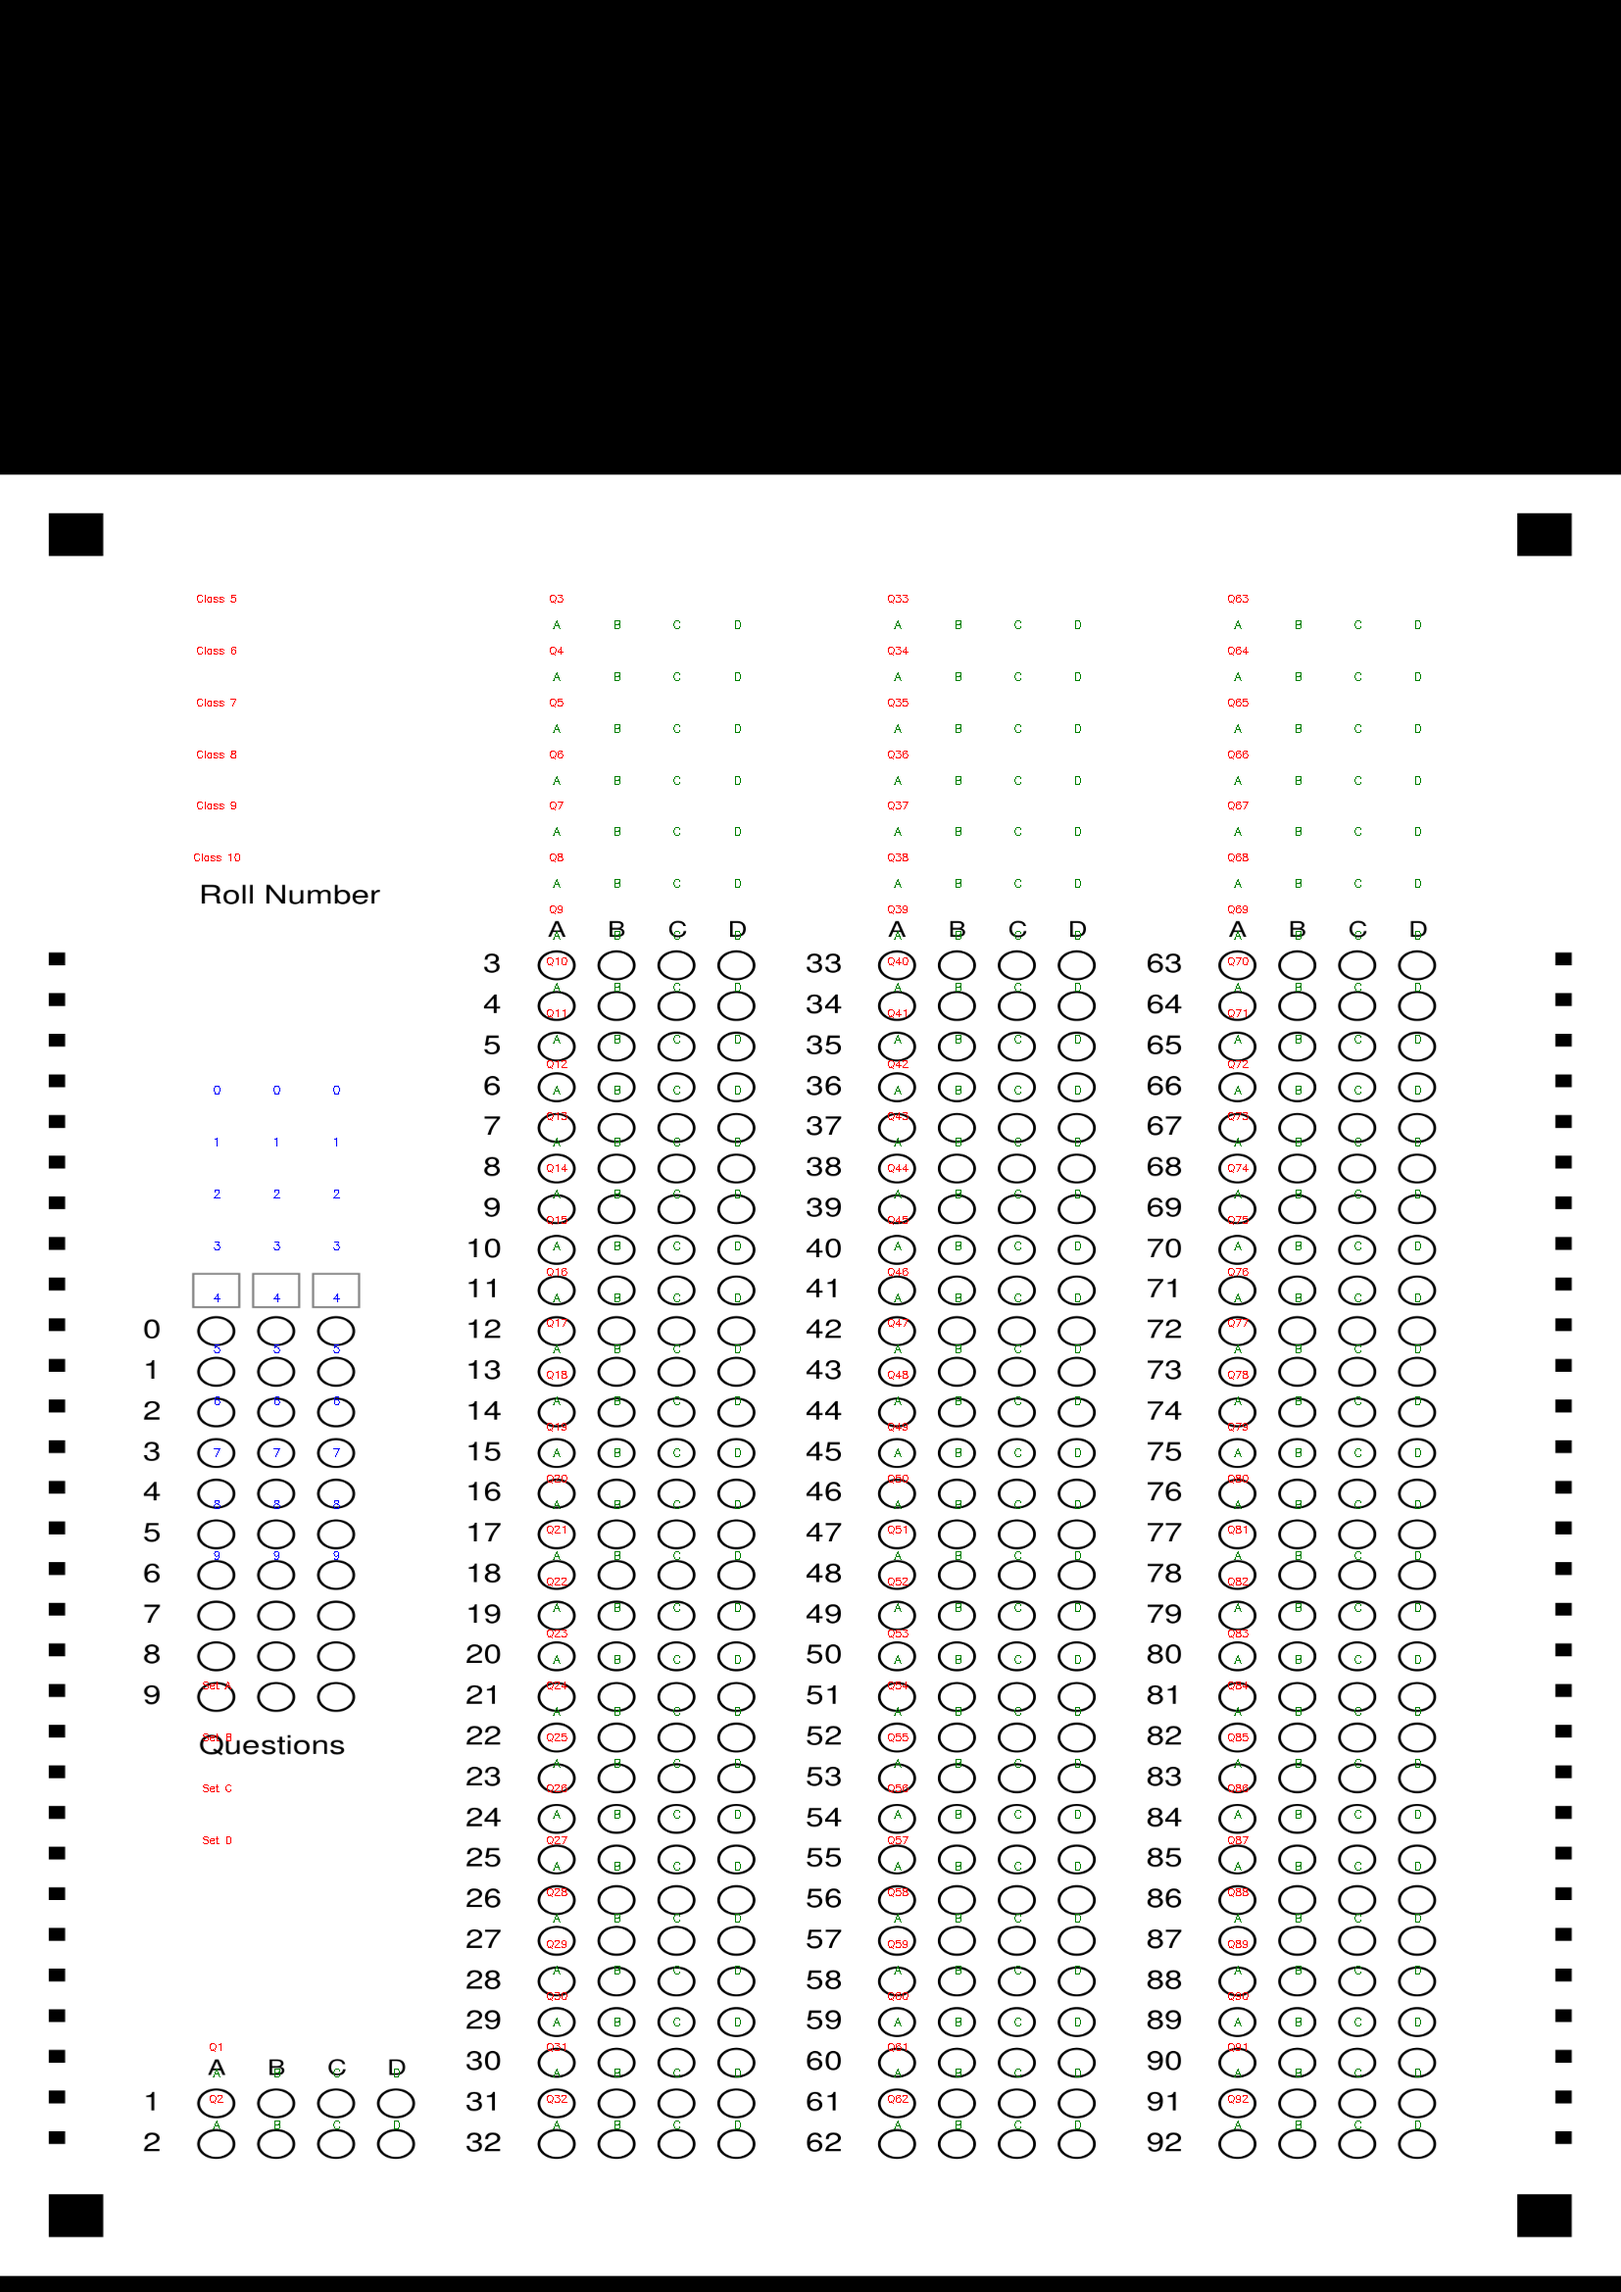
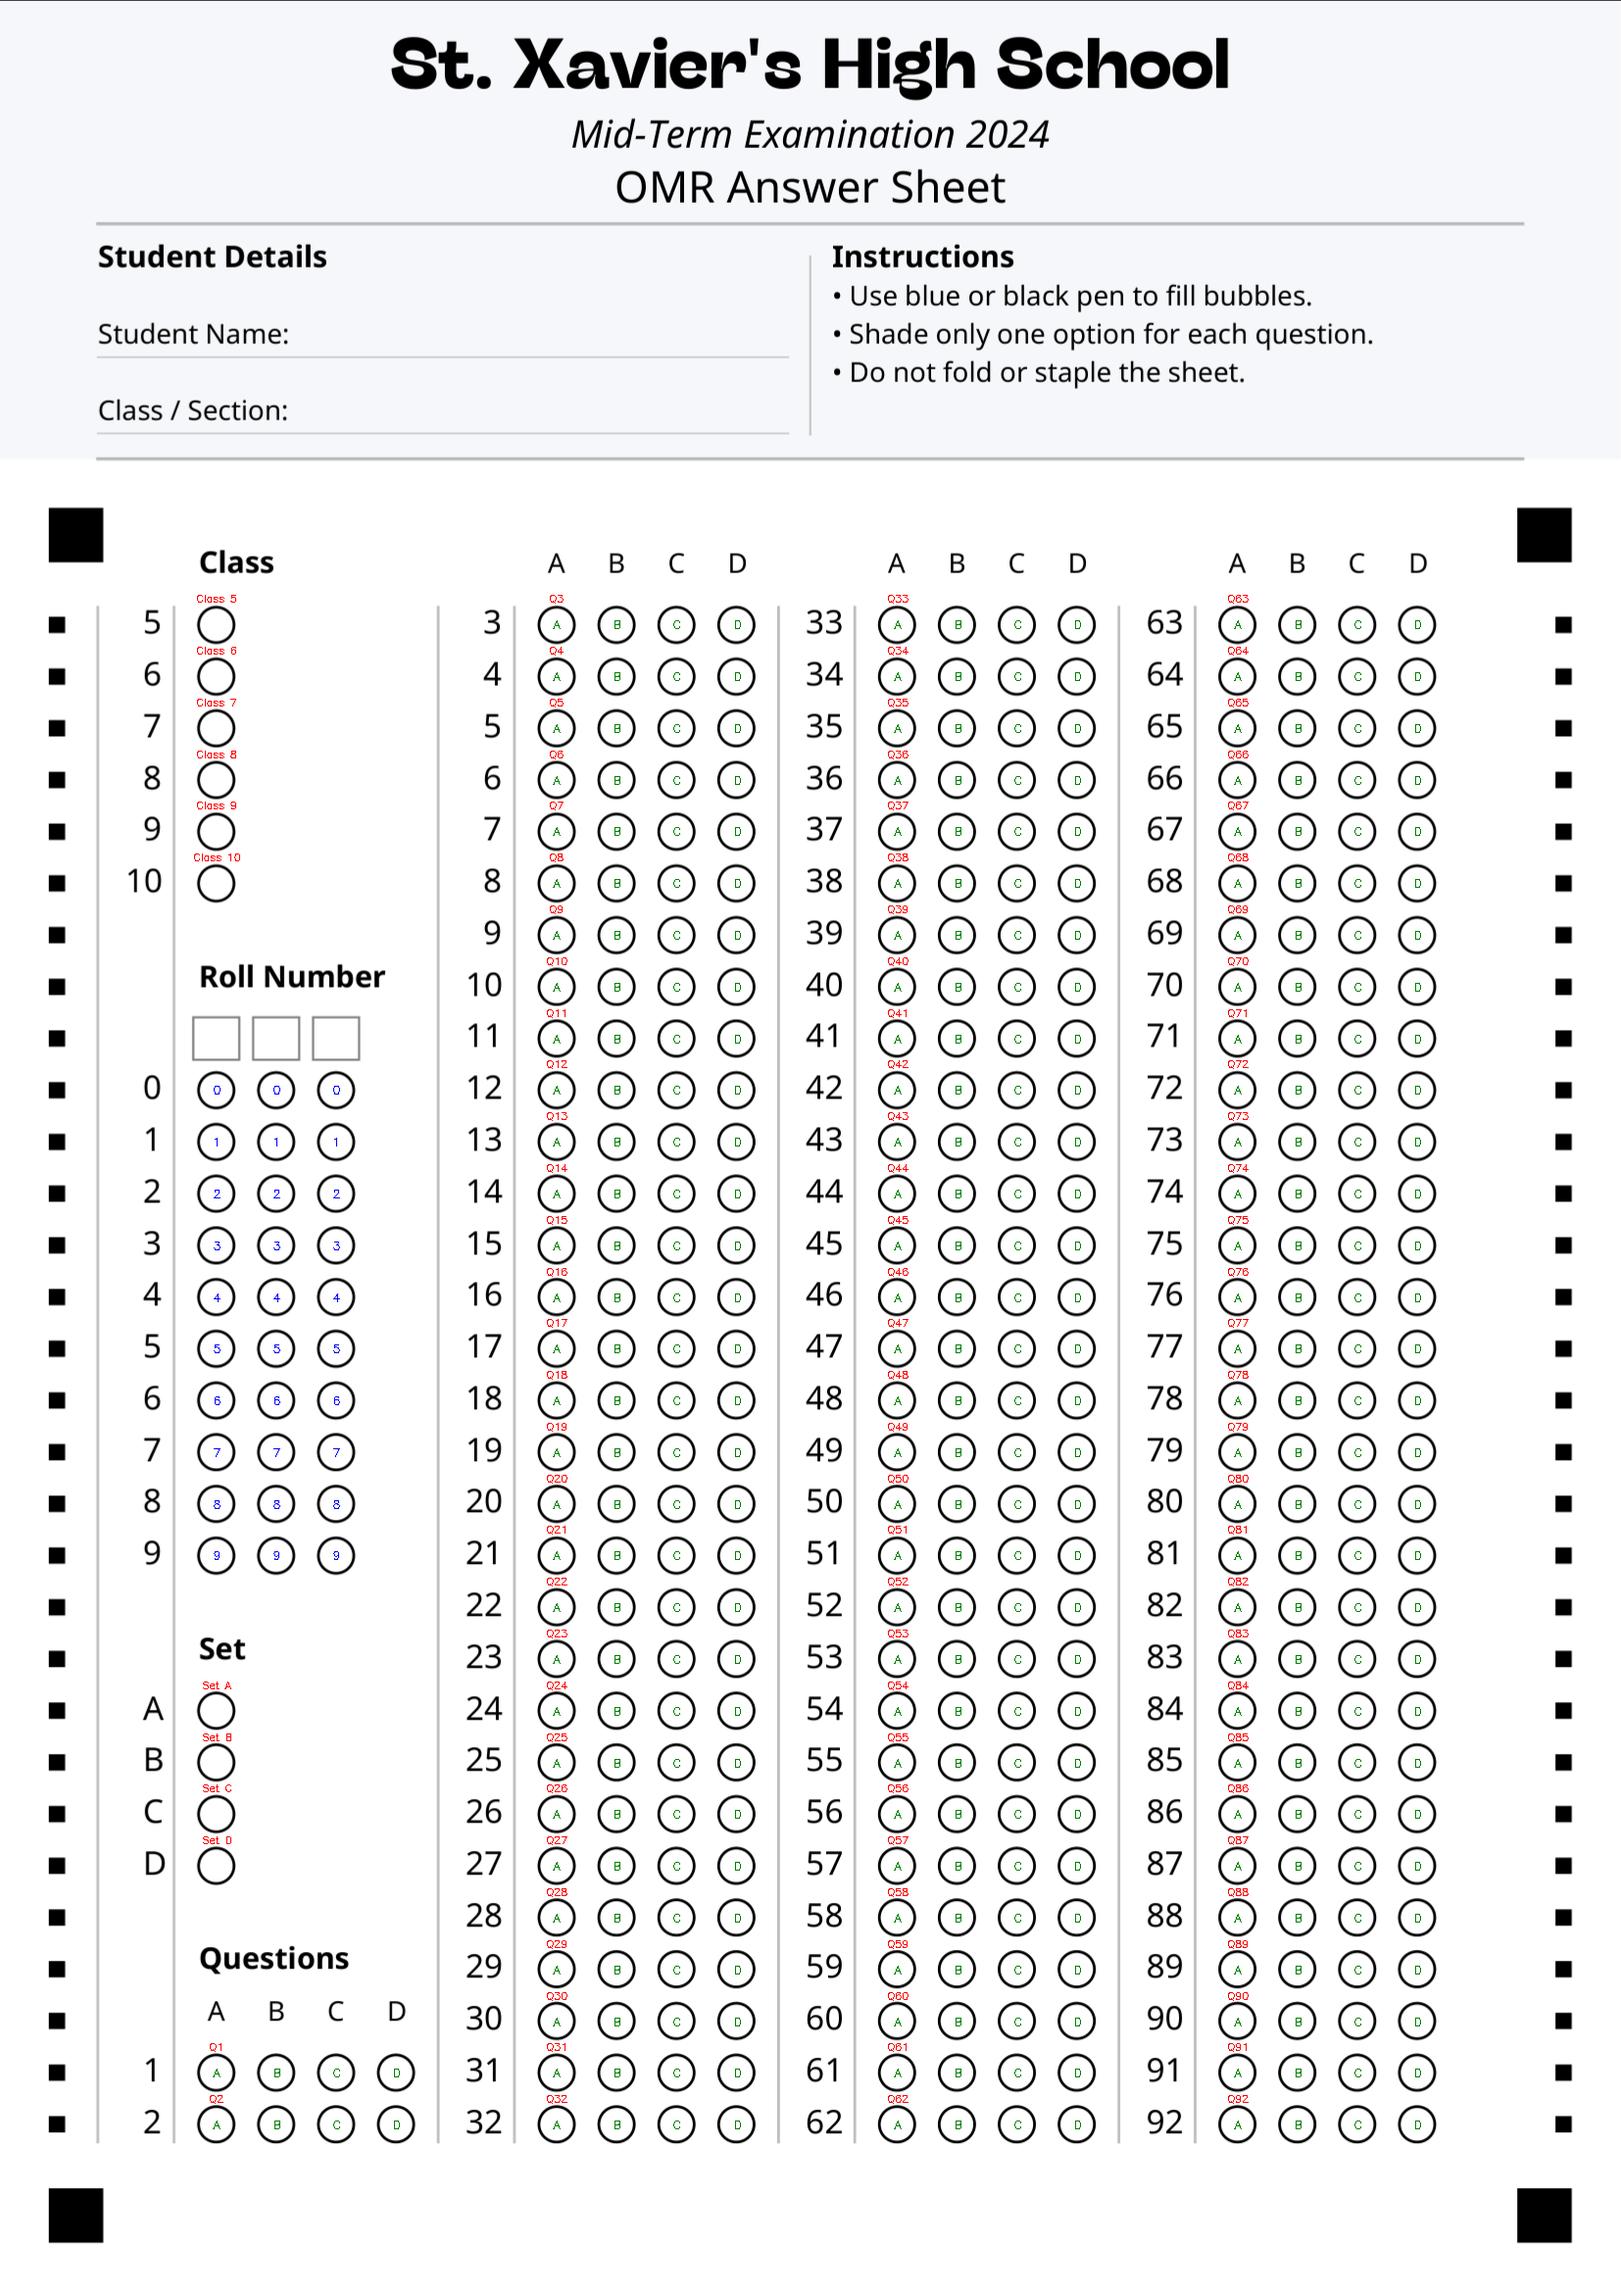
Change OMR generator output to omr_sheet.pdf and update processed reference image
- Rename output from omr_sheet_fpdf.pdf to omr_sheet.pdf for consistency
- Update processed reference image with improved bubble labeling

diff --git a/omr_sheet_generator_new.py b/omr_sheet_generator_new.py
@@ -415,5 +415,5 @@ def generate_omr_sheet(output_path: Path) -> None:
 
 
 if __name__ == "__main__":
-    target_path = Path("sheets") / "omr_sheet_fpdf.pdf"
+    target_path = Path("sheets") / "omr_sheet.pdf"
     generate_omr_sheet(target_path)
